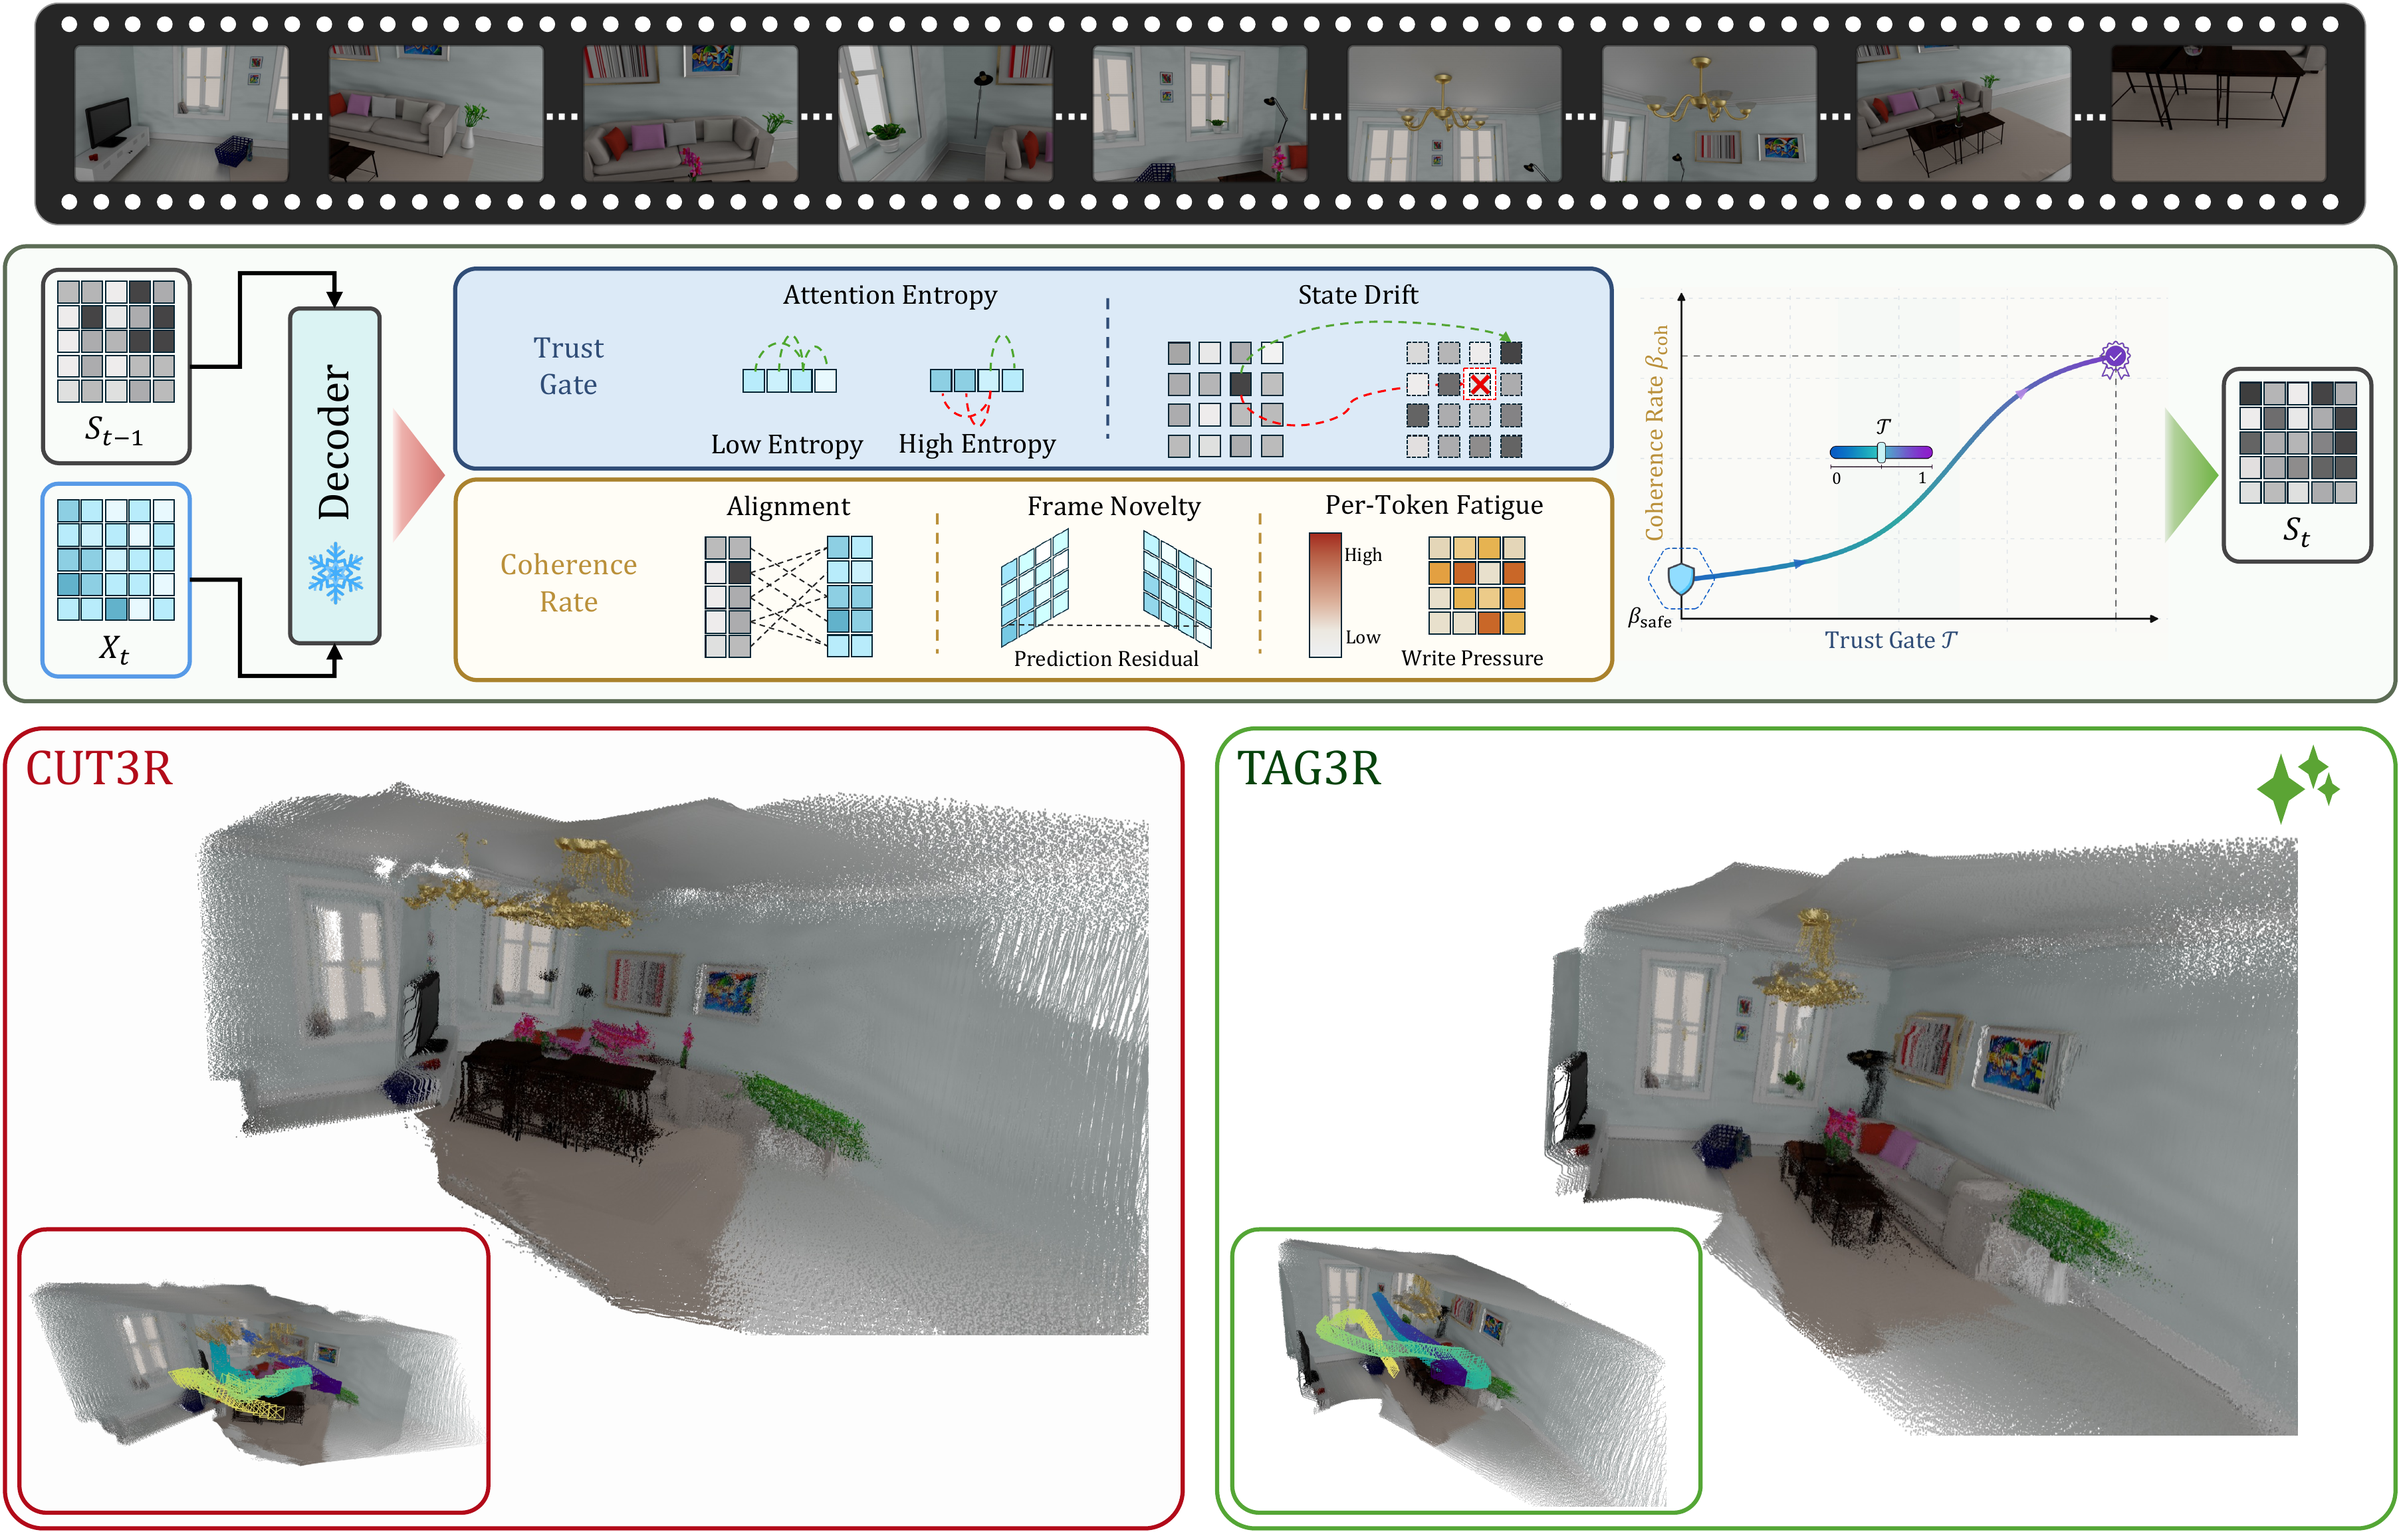
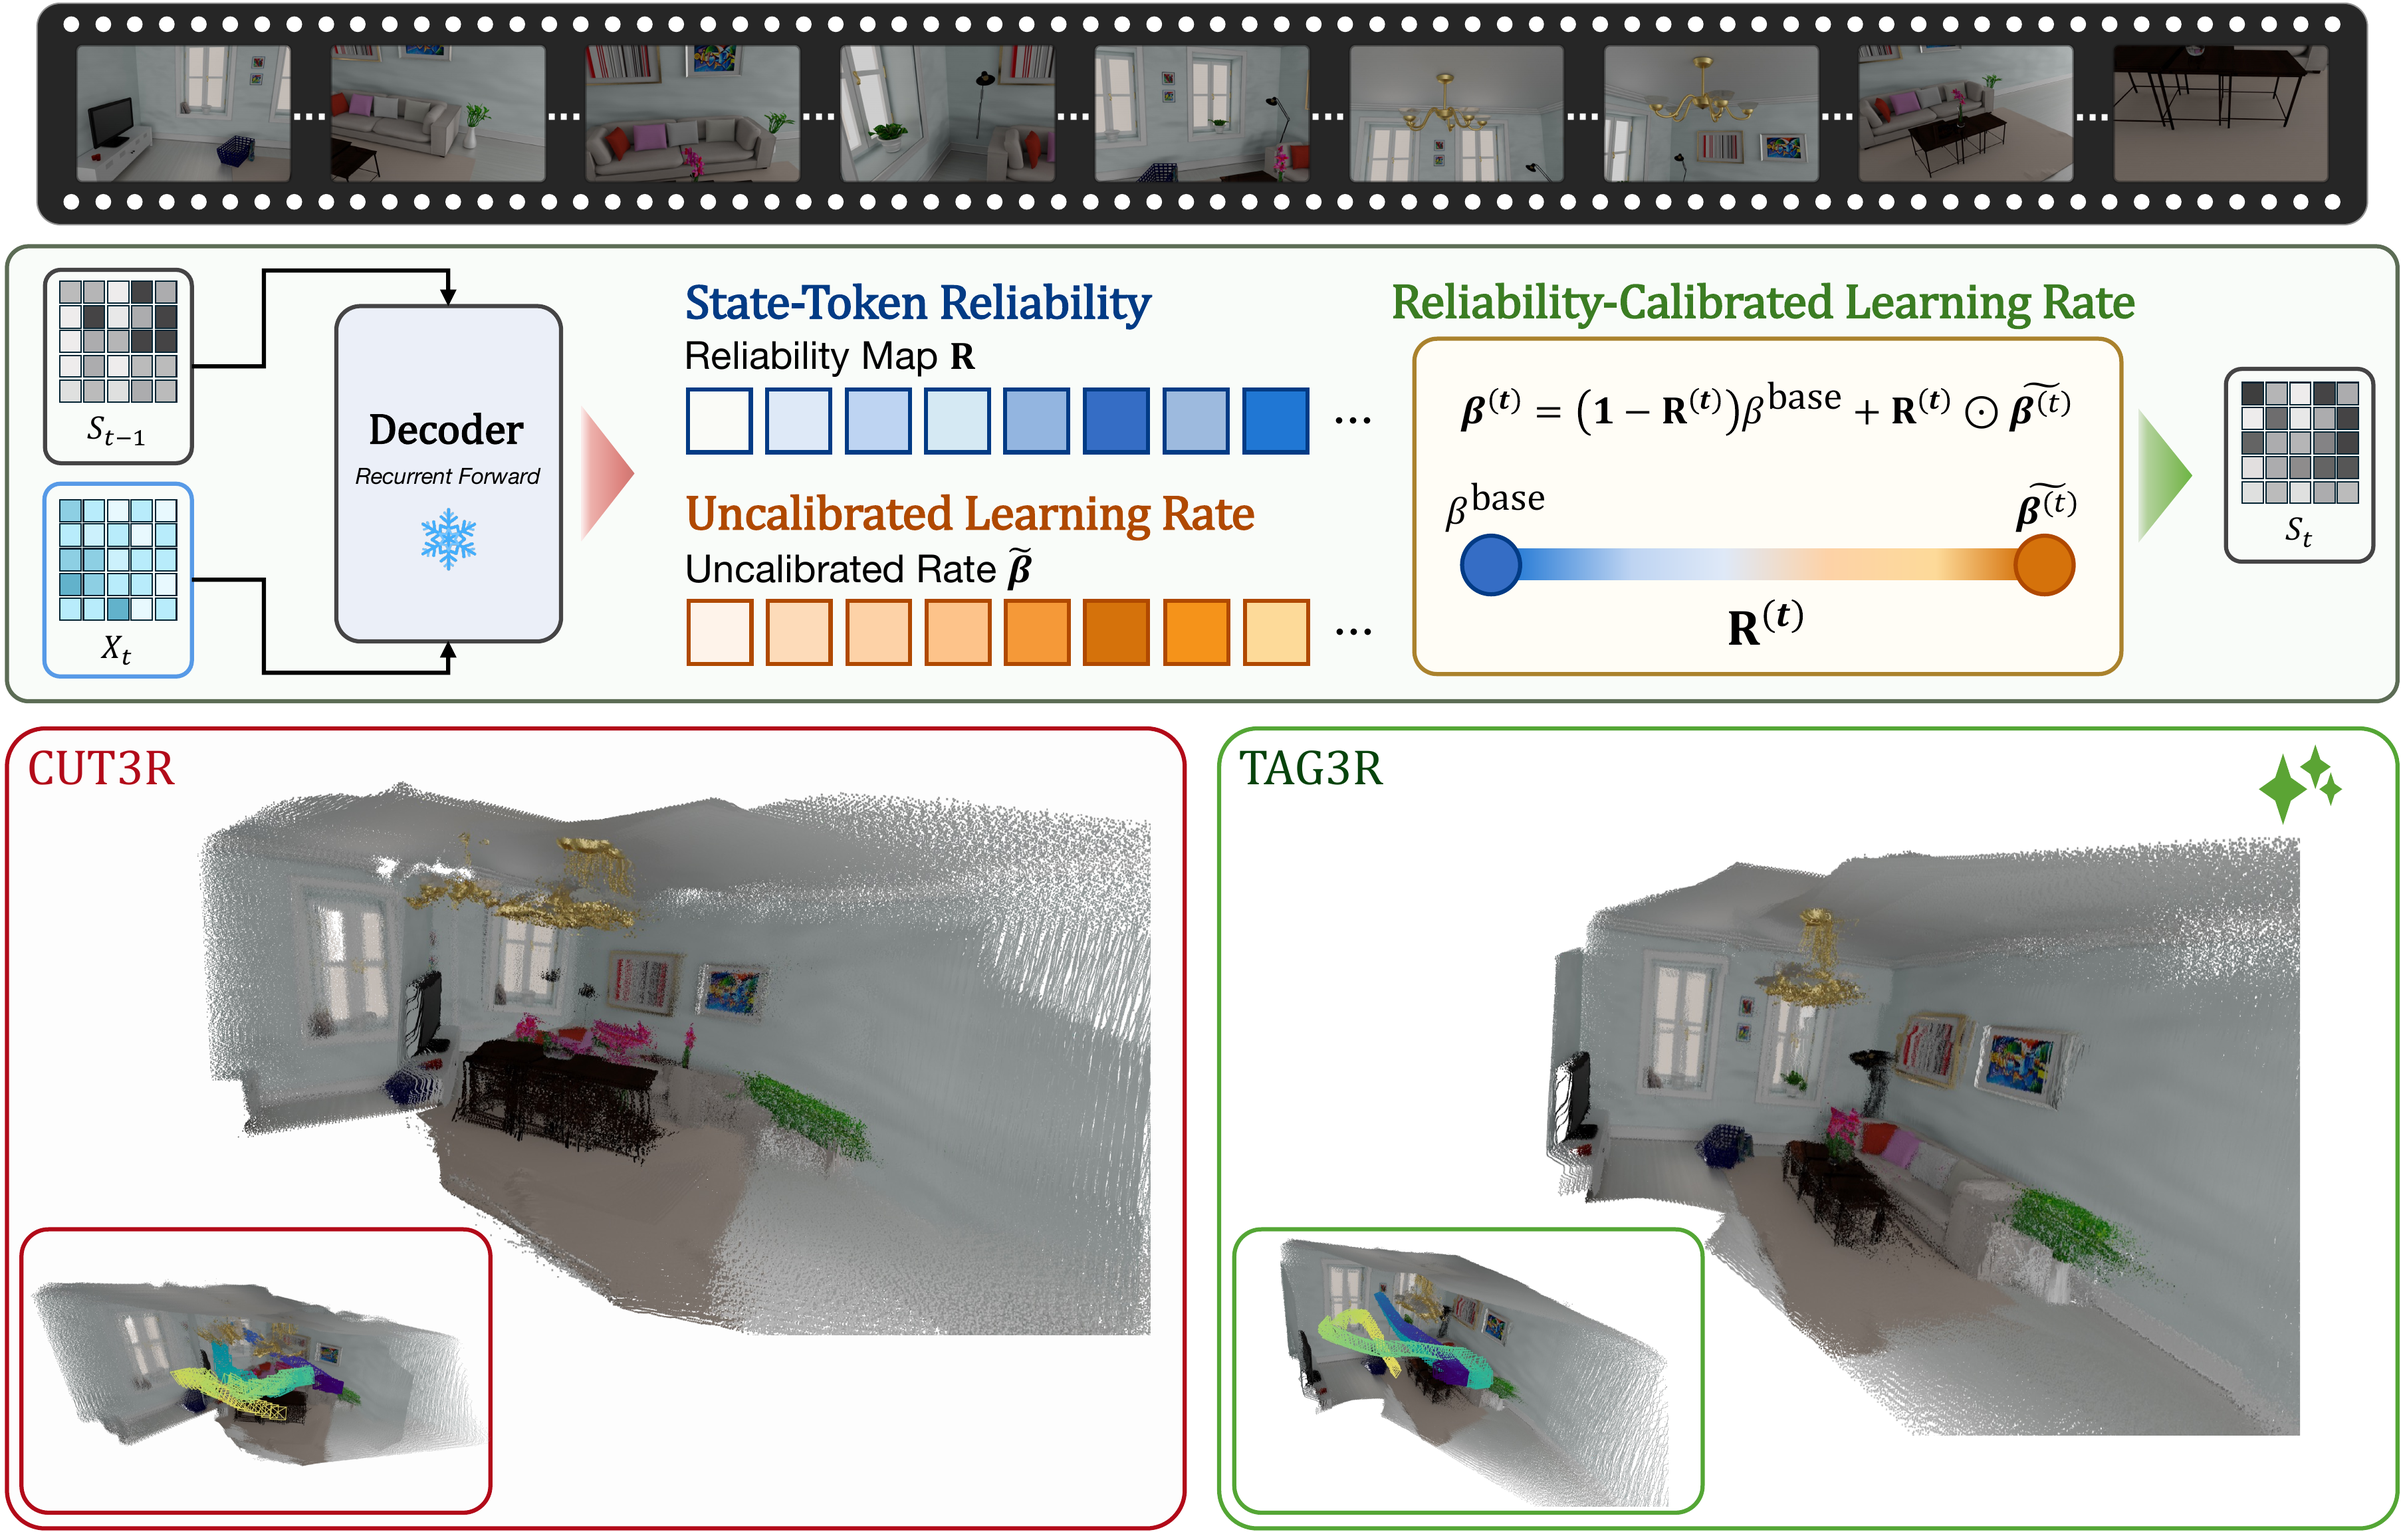
Optimize page load: convert PNG images to WebP
- Generate WebP versions for static/images and assets covers/logos
- Update index.html to use <picture> with WebP source and PNG fallback
- Update static/js/app.js to reference WebP cover images
- Reduce total image size from ~35 MB to ~3.9 MB (~89% reduction)

diff --git a/index.html b/index.html
@@ -51,7 +51,13 @@
         <section class="hero section">
           <div class="hero-copy reveal">
             <div class="hero-wordmark" aria-hidden="true">
-              <img src="assets/logo/tag3r-wordmark.png" alt="" />
+              <picture>
+                <source
+                  srcset="assets/logo/tag3r-wordmark.webp"
+                  type="image/webp"
+                />
+                <img src="assets/logo/tag3r-wordmark.png" alt="" />
+              </picture>
             </div>
             <h1>TAG3R: Trust-Aware Adaptive Gating for Streaming 3D Reconstruction</h1>
             <div class="authors centered">
@@ -88,7 +94,7 @@
               muted
               loop
               playsinline
-              poster="assets/teaser/france_cover.png"
+              poster="assets/teaser/france_cover.webp"
               aria-label="TAG3R streaming 3D reconstruction teaser video"
             >
               <source src="assets/teaser/teaser_france.mp4" type="video/mp4" />
@@ -168,10 +174,16 @@
 
           <div class="method-layout">
             <figure class="method-figure teaser-panel">
-              <img
-                src="static/images/tag3r-teaser-hq-1.png"
-                alt="TAG3R overview and qualitative comparison against CUT3R"
-              />
+              <picture>
+                <source
+                  srcset="static/images/tag3r-teaser-hq-1.webp"
+                  type="image/webp"
+                />
+                <img
+                  src="static/images/tag3r-teaser-hq-1.png"
+                  alt="TAG3R overview and qualitative comparison against CUT3R"
+                />
+              </picture>
               <figcaption>
                 TAG3R decouples <em>whether</em> a state token should be updated from
                 <em>how strongly</em> it should be updated. An introspective trust gate
@@ -377,10 +389,16 @@
                 <span>Streaming baselines</span>
                 <span>TAG3R</span>
               </div>
-              <img
-                src="static/images/tag3r-qualitative-hq-1.png"
-                alt="Qualitative 3D reconstruction comparison between TAG3R and prior methods"
-              />
+              <picture>
+                <source
+                  srcset="static/images/tag3r-qualitative-hq-1.webp"
+                  type="image/webp"
+                />
+                <img
+                  src="static/images/tag3r-qualitative-hq-1.png"
+                  alt="Qualitative 3D reconstruction comparison between TAG3R and prior methods"
+                />
+              </picture>
               <p>
                 Compared with prior recurrent baselines, TAG3R reduces structural
                 distortion, suppresses noisy geometry, and retains more coherent

diff --git a/static/js/app.js b/static/js/app.js
@@ -18,19 +18,19 @@ const visualizationItems = [
   {
     id: "dl3dv_5c3a",
     title: "DL3DV 5C3A",
-    imageSrc: "assets/glb/dl3dv_5c3a/dl3dv_5c3a.png",
+    imageSrc: "assets/glb/dl3dv_5c3a/dl3dv_5c3a.webp",
     modelSrc: "assets/glb/dl3dv_5c3a/dl3dv_5c3a.glb",
   },
   {
     id: "dl3dv_5f00",
     title: "DL3DV 5F00",
-    imageSrc: "assets/glb/dl3dv_5f00/dl3dv_5f00.png",
+    imageSrc: "assets/glb/dl3dv_5f00/dl3dv_5f00.webp",
     modelSrc: "assets/glb/dl3dv_5f00/dl3dv_5f00.glb",
   },
   {
     id: "whiteroom",
     title: "White Room",
-    imageSrc: "assets/glb/whiteroom/whiteroom.png",
+    imageSrc: "assets/glb/whiteroom/whiteroom.webp",
     modelSrc: "assets/glb/whiteroom/whiteroom.glb",
   },
 ];
@@ -38,37 +38,37 @@ const sequenceVideoItems = [
   {
     id: "nagoya",
     title: "Nagoya",
-    imageSrc: "assets/videos/nagoya/nagoya_cover.png",
+    imageSrc: "assets/videos/nagoya/nagoya_cover.webp",
     videoSrc: "assets/videos/nagoya/nagoya_tag3r.mp4",
   },
   {
     id: "nippon",
     title: "Nippon",
-    imageSrc: "assets/videos/nippon/nippon_cover.png",
+    imageSrc: "assets/videos/nippon/nippon_cover.webp",
     videoSrc: "assets/videos/nippon/nippon_tag3r.mp4",
   },
   {
     id: "office",
     title: "Office",
-    imageSrc: "assets/videos/office/office_cover.png",
+    imageSrc: "assets/videos/office/office_cover.webp",
     videoSrc: "assets/videos/office/office.mp4",
   },
   {
     id: "davis_rollerblade",
     title: "DAVIS Rollerblade",
-    imageSrc: "assets/videos/DAVIS_rollerblade/rollerblade_cover.png",
+    imageSrc: "assets/videos/DAVIS_rollerblade/rollerblade_cover.webp",
     videoSrc: "assets/videos/DAVIS_rollerblade/DAVIS_rollerblade.mp4",
   },
   {
     id: "davis_stroller",
     title: "DAVIS Stroller",
-    imageSrc: "assets/videos/DAVIS_stroller/stroller_cover.png",
+    imageSrc: "assets/videos/DAVIS_stroller/stroller_cover.webp",
     videoSrc: "assets/videos/DAVIS_stroller/DAVIS_stroller.mp4",
   },
   {
     id: "davis_train",
     title: "DAVIS Train",
-    imageSrc: "assets/videos/DAVIS_train/train_cover.png",
+    imageSrc: "assets/videos/DAVIS_train/train_cover.webp",
     videoSrc: "assets/videos/DAVIS_train/DAVIS_train.mp4",
   },
 ];
@@ -76,7 +76,7 @@ const comparisonScenes = [
   {
     id: "kitchen",
     title: "Kitchen",
-    imageSrc: "assets/comp/kitchen/kitchen.png",
+    imageSrc: "assets/comp/kitchen/kitchen.webp",
     methods: [
       {
         id: "tag3r",
